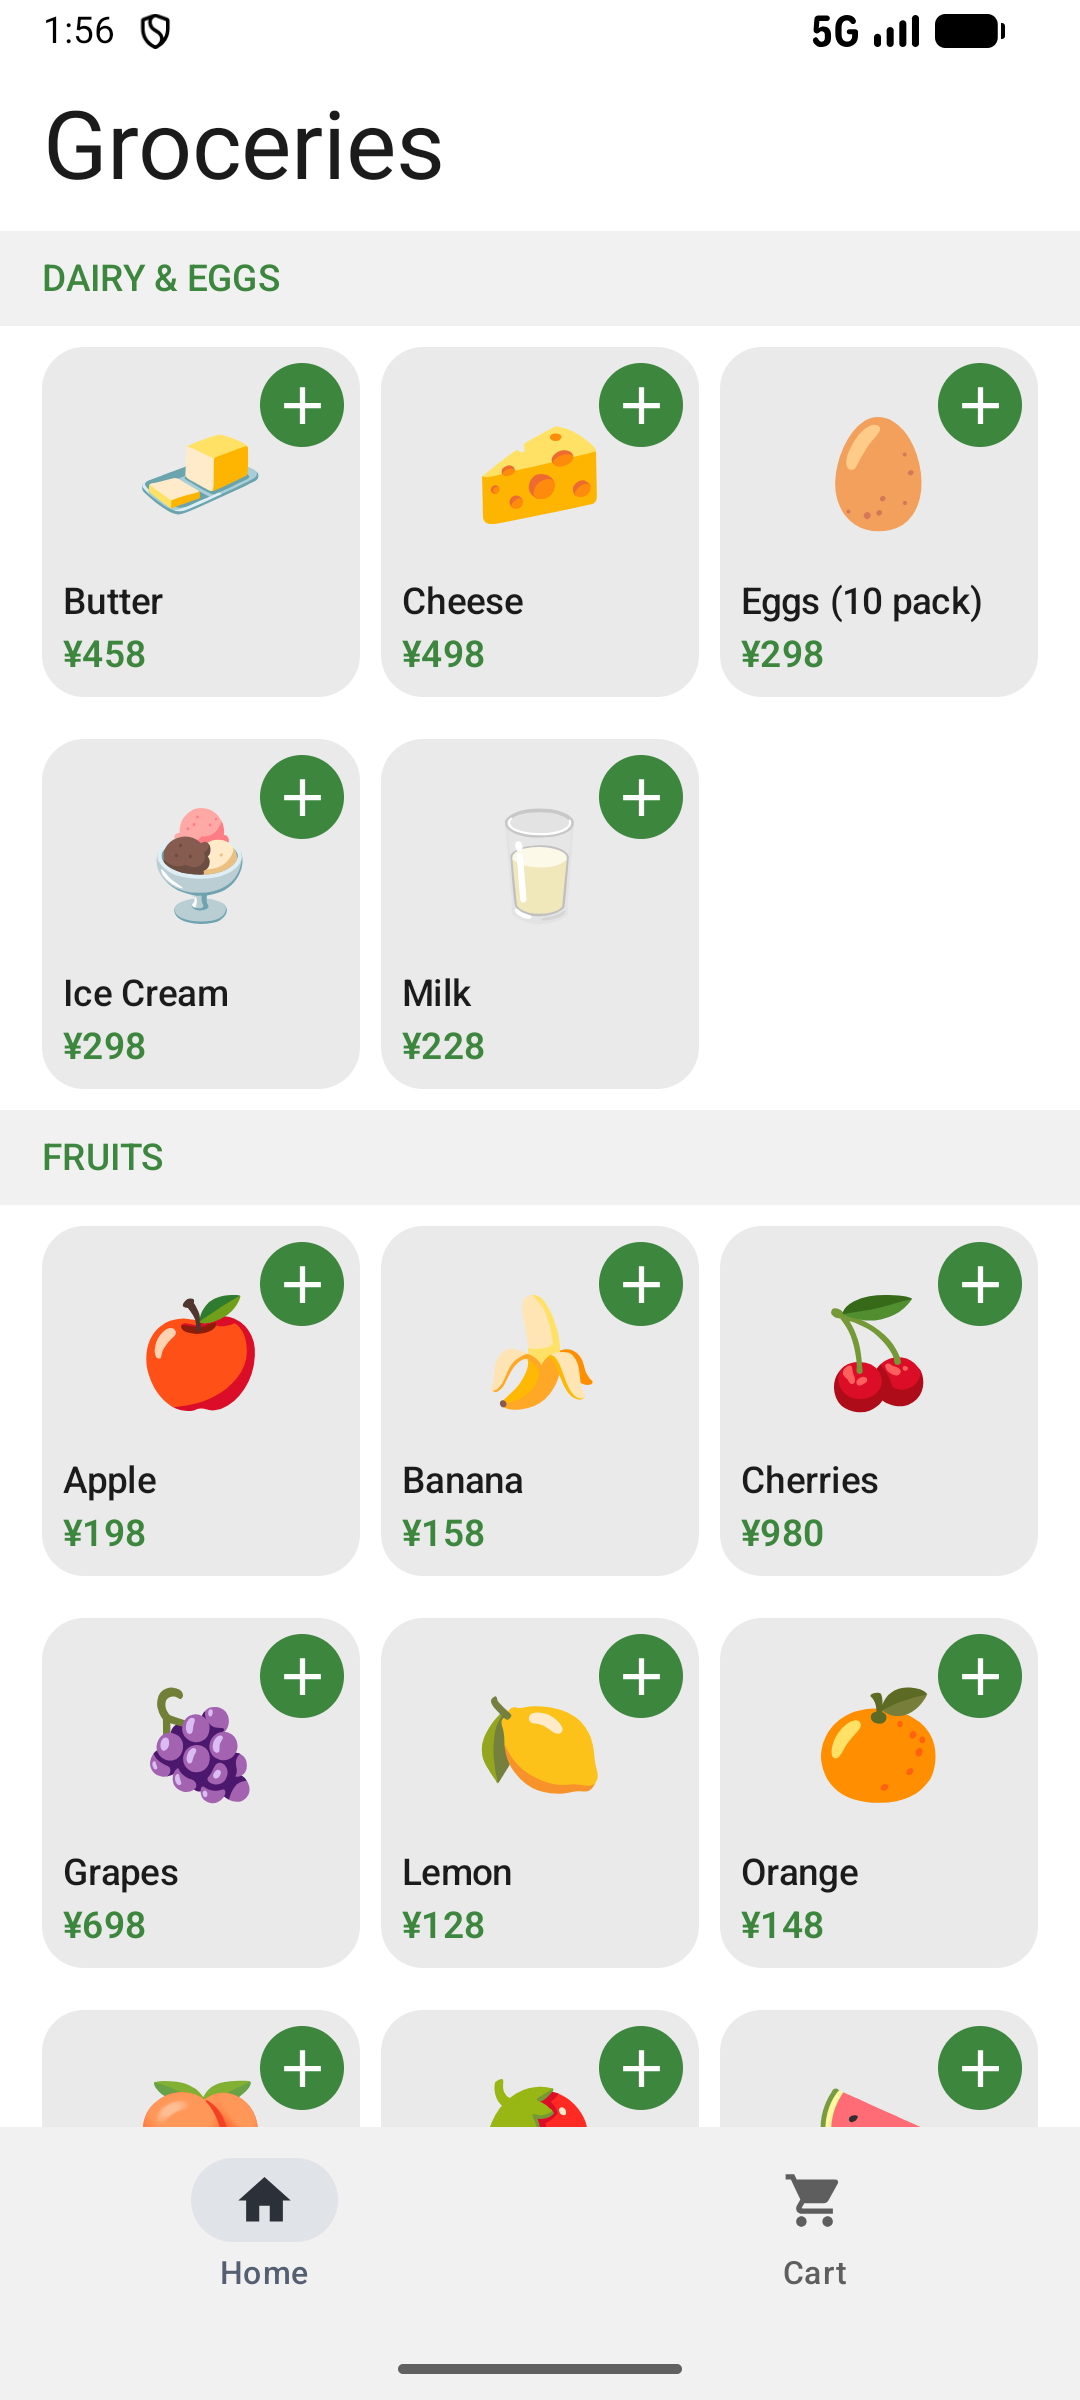
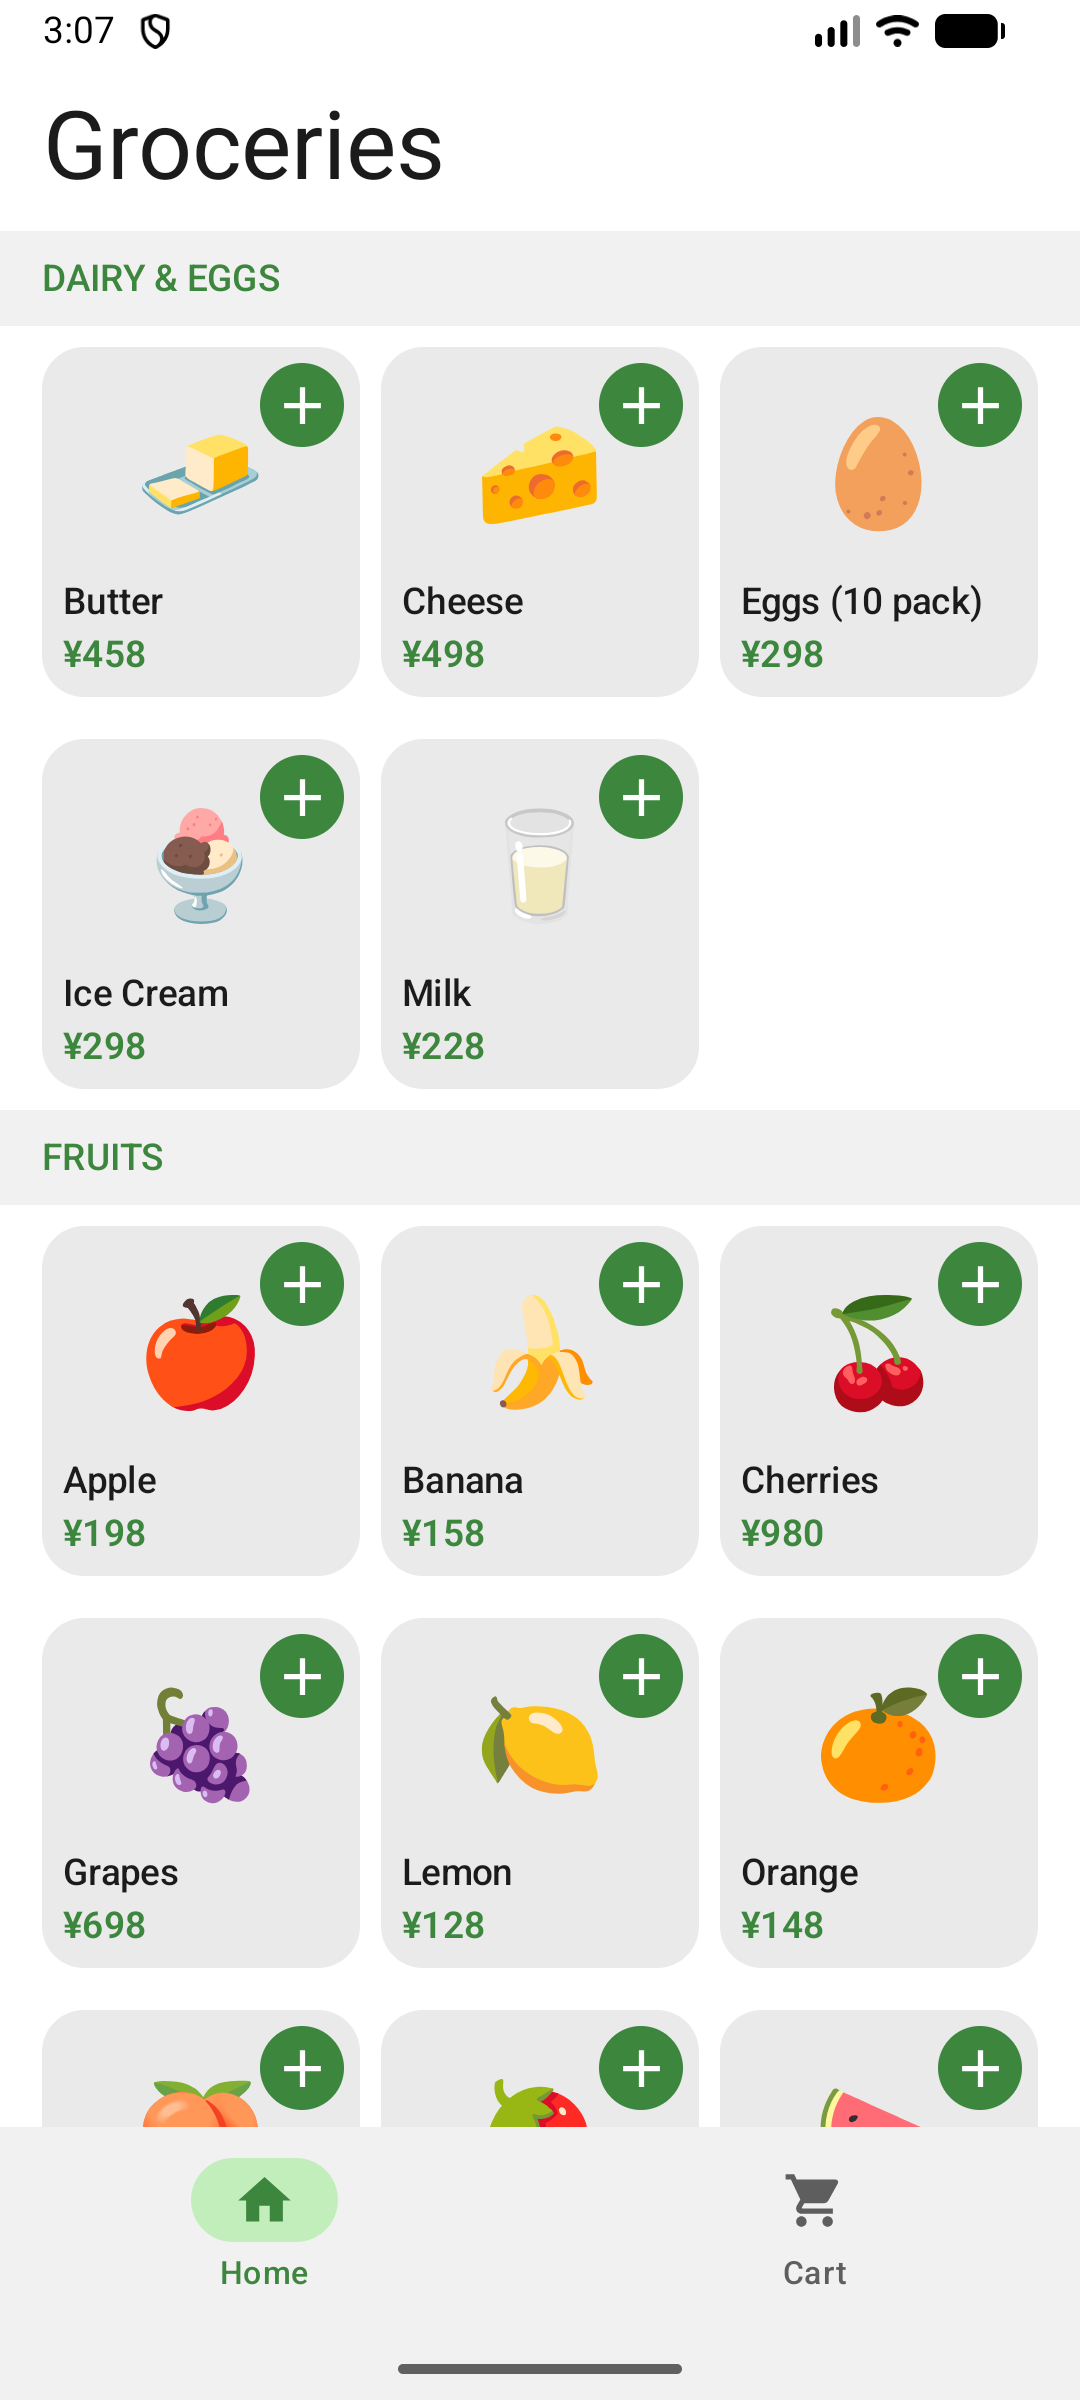
Add logging events

Changed region(s): [[0.1833, 0.875, 0.3361, 0.9688], [0.7333, 0.0, 0.8556, 0.0312], [0.0306, 0.0, 0.1222, 0.0312]]

diff --git a/androidApp/src/main/kotlin/com/github/kittinunf/aiqua_testing/ui/GroceryApp.kt b/androidApp/src/main/kotlin/com/github/kittinunf/aiqua_testing/ui/GroceryApp.kt
@@ -8,8 +8,10 @@ import androidx.compose.foundation.layout.padding
 import androidx.compose.material3.Badge
 import androidx.compose.material3.BadgedBox
 import androidx.compose.material3.Icon
+import androidx.compose.material3.MaterialTheme
 import androidx.compose.material3.NavigationBar
 import androidx.compose.material3.NavigationBarItem
+import androidx.compose.material3.NavigationBarItemDefaults
 import androidx.compose.material3.Scaffold
 import androidx.compose.material3.Text
 import androidx.compose.runtime.Composable
@@ -56,6 +58,11 @@ fun GroceryApp(container: AppContainer) {
 
         Scaffold(
             bottomBar = {
+                val tabColors = NavigationBarItemDefaults.colors(
+                    selectedIconColor = MaterialTheme.colorScheme.primary,
+                    selectedTextColor = MaterialTheme.colorScheme.primary,
+                    indicatorColor = MaterialTheme.colorScheme.primaryContainer,
+                )
                 NavigationBar {
                     NavigationBarItem(
                         selected = current == HomeRoute,
@@ -67,6 +74,7 @@ fun GroceryApp(container: AppContainer) {
                             )
                         },
                         label = { Text(stringResource(MR.strings.tab_home)) },
+                        colors = tabColors,
                     )
                     NavigationBarItem(
                         selected = current == CartRoute,
@@ -77,6 +85,7 @@ fun GroceryApp(container: AppContainer) {
                             }
                         },
                         label = { Text(stringResource(MR.strings.tab_cart)) },
+                        colors = tabColors,
                     )
                 }
             },
@@ -91,9 +100,6 @@ fun GroceryApp(container: AppContainer) {
                     rememberSaveableStateHolderNavEntryDecorator(),
                     rememberViewModelStoreNavEntryDecorator(),
                 ),
-                transitionSpec = { fadeIn() togetherWith fadeOut() },
-                popTransitionSpec = { fadeIn() togetherWith fadeOut() },
-                predictivePopTransitionSpec = { fadeIn() togetherWith fadeOut() },
                 entryProvider = entryProvider {
                     entry<HomeRoute> { HomeScreen(viewModel { container.homeViewModel() }) }
                     entry<CartRoute> {

diff --git a/sharedLogic/src/commonMain/kotlin/com/github/kittinunf/aiqua_testing/aiqua/EventLogger.kt b/sharedLogic/src/commonMain/kotlin/com/github/kittinunf/aiqua_testing/aiqua/EventLogger.kt
@@ -1,10 +1,46 @@
 package com.github.kittinunf.aiqua_testing.aiqua
 
+import com.github.kittinunf.aiqua_testing.catalog.CURRENCY
+import com.github.kittinunf.aiqua_testing.order.Order
+
 /** Where ViewModels send analytics events. The app uses [Aiqua]; tests use a fake. */
 fun interface EventLogger {
-    fun logEvent(name: String, parameters: Map<String, Any>)
+    /**
+     * Mirrors the AIQUA SDK: [valueToSum] is added up per event name in AIQUA (e.g. revenue), in the ISO 4217
+     * [valueToSumCurrency]. Events without a value pass null for both.
+     */
+    fun logEvent(name: String, parameters: Map<String, Any>, valueToSum: Double?, valueToSumCurrency: String?)
 }
+
+// The events the app sends, so names and parameter keys live in one place.
 
 /** A screen became visible: the app opened on it, or the Shopper navigated to it. */
 internal fun EventLogger.screenViewed(screenName: String) =
-    logEvent("screen_viewed", mapOf("screen_name" to screenName))
+    logEvent("screen_viewed", mapOf("screen_name" to screenName), null, null)
+
+/**
+ * An Order was placed: one `product_purchased` per Cart Line (AIQUA's recommendation models learn from these),
+ * then `checkout_completed`, which alone carries the Order total as revenue so it's counted once. All share `order_id`.
+ */
+internal fun EventLogger.orderPlaced(order: Order) {
+    order.cart.lines.forEach { line ->
+        logEvent(
+            "product_purchased",
+            mapOf(
+                "order_id" to order.id,
+                "product_id" to line.product.id,
+                "product_name" to line.product.name,
+                "category" to line.product.category,
+                "price" to line.product.price,
+                "quantity" to line.quantity,
+            ),
+            null,
+            null,
+        )
+    }
+    logEvent("checkout_completed", mapOf("order_id" to order.id, "product_count" to order.count), order.total.toDouble(), CURRENCY)
+}
+
+/** Placing an Order failed. Nothing was bought, so there's no value and no per-item events. */
+internal fun EventLogger.checkoutFailed(error: Throwable) =
+    logEvent("checkout_failed", mapOf("reason" to (error.message ?: error::class.simpleName ?: "unknown")), null, null)

diff --git a/sharedLogic/src/commonTest/kotlin/com/github/kittinunf/aiqua_testing/cart/CartViewModelTest.kt b/sharedLogic/src/commonTest/kotlin/com/github/kittinunf/aiqua_testing/cart/CartViewModelTest.kt
@@ -45,7 +45,18 @@ class CartViewModelTest {
             }
         }
         val cartRepository = DefaultCartRepository(orderService)
-        val viewModel = CartViewModel(cartRepository, eventLogger = { _, _ -> })
+        val logged = mutableListOf<LoggedEvent>()
+        val viewModel = CartViewModel(
+            cartRepository,
+            eventLogger = { name, parameters, value, currency ->
+                logged += LoggedEvent(
+                    name,
+                    parameters,
+                    value,
+                    currency
+                )
+            },
+        )
         cartRepository.add(carrot)
         runCurrent()
 
@@ -60,6 +71,8 @@ class CartViewModelTest {
             assertNotNull(it.orderError)
             assertEquals(1, it.lines.size) // the Cart is still there
         }
+        assertEquals(listOf(LoggedEvent("checkout_failed", mapOf("reason" to "declined"))), logged)
+        logged.clear()
 
         advanceTimeBy(2.seconds)
         runCurrent()
@@ -74,5 +87,33 @@ class CartViewModelTest {
             assertNull(it.orderError)
             assertTrue(it.isEmpty)
         }
+        assertEquals(
+            listOf(
+                LoggedEvent(
+                    "product_purchased",
+                    mapOf(
+                        "order_id" to "ORD-000001",
+                        "product_id" to "carrot",
+                        "product_name" to "Carrot",
+                        "category" to "vegetables",
+                        "price" to 98, "quantity" to 1,
+                    ),
+                ),
+                LoggedEvent(
+                    "checkout_completed",
+                    mapOf("order_id" to "ORD-000001", "product_count" to 1),
+                    value = 98.0,
+                    currency = "JPY"
+                ),
+            ),
+            logged,
+        )
     }
+
+    private data class LoggedEvent(
+        val name: String,
+        val parameters: Map<String, Any>,
+        val value: Double? = null,
+        val currency: String? = null,
+    )
 }

diff --git a/sharedLogic/src/commonMain/kotlin/com/github/kittinunf/aiqua_testing/cart/CartViewModel.kt b/sharedLogic/src/commonMain/kotlin/com/github/kittinunf/aiqua_testing/cart/CartViewModel.kt
@@ -3,6 +3,8 @@ package com.github.kittinunf.aiqua_testing.cart
 import androidx.lifecycle.ViewModel
 import androidx.lifecycle.viewModelScope
 import com.github.kittinunf.aiqua_testing.aiqua.EventLogger
+import com.github.kittinunf.aiqua_testing.aiqua.checkoutFailed
+import com.github.kittinunf.aiqua_testing.aiqua.orderPlaced
 import com.github.kittinunf.aiqua_testing.aiqua.screenViewed
 import com.github.kittinunf.aiqua_testing.catalog.Product
 import com.github.kittinunf.aiqua_testing.catalog.formatPrice
@@ -26,9 +28,7 @@ data class CartUiState(
     val lines: List<CartLineRow> = emptyList(),
     val totalText: String = formatPrice(0),
     val isPlacingOrder: Boolean = false,
-    /** Set for a moment after an Order is placed, to show "Order placed" with its total. */
     val placedOrderTotalText: String? = null,
-    /** Set for a moment after placing an Order fails. The Cart is unchanged, so the Shopper can tap Buy again. */
     val orderError: Throwable? = null,
 ) {
     val isEmpty: Boolean get() = lines.isEmpty()
@@ -65,10 +65,12 @@ class CartViewModel(
         viewModelScope.launch {
             orderState.value = try {
                 val order = cartRepository.checkout()
+                eventLogger.orderPlaced(order)
                 OrderState(placedTotalText = formatPrice(order.total))
             } catch (e: CancellationException) {
                 throw e
             } catch (e: Exception) {
+                eventLogger.checkoutFailed(e)
                 OrderState(error = e)
             }
             delay(resultDisplayTime)

diff --git a/sharedLogic/src/iosMain/kotlin/com/github/kittinunf/aiqua_testing/aiqua/Aiqua.ios.kt b/sharedLogic/src/iosMain/kotlin/com/github/kittinunf/aiqua_testing/aiqua/Aiqua.ios.kt
@@ -3,6 +3,7 @@ package com.github.kittinunf.aiqua_testing.aiqua
 import com.appier.ios.QGSdk
 import com.github.kittinunf.aiqua_testing.Constants
 import com.github.kittinunf.aiqua_testing.getPlatform
+import platform.Foundation.NSNumber
 
 @OptIn(kotlinx.cinterop.ExperimentalForeignApi::class)
 actual typealias QG = QGSdk
@@ -23,7 +24,12 @@ actual object Aiqua : EventLogger {
         qg.setCustomKey("platform", platform.name)
     }
 
-    actual override fun logEvent(name: String, parameters: Map<String, Any>) {
-        QGSdk.getSharedInstance().logEvent(name, withParameters = parameters as Map<Any?, *>)
+    actual override fun logEvent(name: String, parameters: Map<String, Any>, valueToSum: Double?, valueToSumCurrency: String?) {
+        QGSdk.getSharedInstance().logEvent(
+            name,
+            withParameters = parameters as Map<Any?, *>,
+            withValueToSum = valueToSum?.let { NSNumber(double = it) },
+            withValueToSumCurrency = valueToSumCurrency,
+        )
     }
 }

diff --git a/sharedLogic/src/commonTest/kotlin/com/github/kittinunf/aiqua_testing/home/HomeViewModelTest.kt b/sharedLogic/src/commonTest/kotlin/com/github/kittinunf/aiqua_testing/home/HomeViewModelTest.kt
@@ -38,7 +38,7 @@ class HomeViewModelTest {
                 products.value = listOf(carrot)
             }
         }
-        val viewModel = HomeViewModel(repository, DefaultCartRepository(FakeOrderService()), eventLogger = { _, _ -> })
+        val viewModel = HomeViewModel(repository, DefaultCartRepository(FakeOrderService()), eventLogger = { _, _, _, _ -> })
 
         viewModel.uiState.value.let {
             assertFalse(it.isLoading)
@@ -63,7 +63,7 @@ class HomeViewModelTest {
             override val products = MutableStateFlow<List<Product>?>(listOf(carrot))
             override suspend fun refresh() = Unit
         }
-        val viewModel = HomeViewModel(repository, DefaultCartRepository(FakeOrderService())) { name, parameters ->
+        val viewModel = HomeViewModel(repository, DefaultCartRepository(FakeOrderService())) { name, parameters, _, _ ->
             logged += name to parameters
         }
 

diff --git a/sharedLogic/src/androidMain/kotlin/com/github/kittinunf/aiqua_testing/aiqua/Aiqua.android.kt b/sharedLogic/src/androidMain/kotlin/com/github/kittinunf/aiqua_testing/aiqua/Aiqua.android.kt
@@ -27,8 +27,9 @@ actual object Aiqua : EventLogger {
     }
 
     // The SDK keeps its single client itself; it only needs a Context to hand it back.
-    actual override fun logEvent(name: String, parameters: Map<String, Any>) {
-        AppierQG.getInstance(AppContextProvider.appContext).logEvent(name, JSONObject(parameters))
+    actual override fun logEvent(name: String, parameters: Map<String, Any>, valueToSum: Double?, valueToSumCurrency: String?) {
+        AppierQG.getInstance(AppContextProvider.appContext)
+            .logEvent(name, JSONObject(parameters), valueToSum, valueToSumCurrency)
     }
 }
 

diff --git a/sharedLogic/src/commonMain/kotlin/com/github/kittinunf/aiqua_testing/cart/CartRepository.kt b/sharedLogic/src/commonMain/kotlin/com/github/kittinunf/aiqua_testing/cart/CartRepository.kt
@@ -14,10 +14,8 @@ interface CartRepository {
     @NativeCoroutinesIgnore // Swift goes through ViewModels, never Repositories.
     val cart: StateFlow<Cart>
 
-    /** Adds one unit, appending a new Cart Line if the Product isn't in the Cart yet. Stops at [CartLine.MAX_QUANTITY]. */
     fun add(product: Product)
 
-    /** Takes away one unit. Taking away the last unit removes the Cart Line. */
     fun decrement(productId: String)
 
     fun remove(productId: String)

diff --git a/sharedLogic/src/commonMain/kotlin/com/github/kittinunf/aiqua_testing/order/Order.kt b/sharedLogic/src/commonMain/kotlin/com/github/kittinunf/aiqua_testing/order/Order.kt
@@ -10,6 +10,7 @@ import kotlin.time.Duration.Companion.seconds
 /** A confirmed purchase of everything that was in the Cart. [id] is the Order ID. */
 data class Order(val id: String, val cart: Cart) {
     val total: Int get() = cart.total
+    val count: Int get() = cart.unitCount
 }
 
 /** Thrown when an Order can't be placed. No Order exists, and the Cart is left as it was. */

diff --git a/sharedLogic/src/commonMain/kotlin/com/github/kittinunf/aiqua_testing/catalog/Product.kt b/sharedLogic/src/commonMain/kotlin/com/github/kittinunf/aiqua_testing/catalog/Product.kt
@@ -12,6 +12,9 @@ data class Product(
     val price: Int,
 )
 
+/** The currency of every Price (ISO 4217): whole Japanese yen. */
+const val CURRENCY = "JPY"
+
 /** Formats whole yen for display, e.g. 1280 -> "¥1,280". */
 fun formatPrice(yen: Int): String =
     "¥" + yen.toString().reversed().chunked(3).joinToString(",").reversed()

diff --git a/sharedLogic/src/commonMain/kotlin/com/github/kittinunf/aiqua_testing/aiqua/Aiqua.kt b/sharedLogic/src/commonMain/kotlin/com/github/kittinunf/aiqua_testing/aiqua/Aiqua.kt
@@ -9,7 +9,7 @@ expect object Aiqua : EventLogger {
 
     fun setCustomUserAttributes(qg: QG)
 
-    override fun logEvent(name: String, parameters: Map<String, Any>)
+    override fun logEvent(name: String, parameters: Map<String, Any>, valueToSum: Double?, valueToSumCurrency: String?)
 }
 
 expect class QG

diff --git a/README.md b/README.md
@@ -5,6 +5,22 @@ So the core logic can be shared across iOS & Android including the AIQUA's insta
 
 The architecture of the app is documented at [docs/architecture.md](./docs/architecture.md) and for how data flows through the app, and [docs/adr](./docs/adr) for key decisions for all technical decisions in building the app.
 
+### AIQUA events
+
+These are the events the app sends to AIQUA. Both apps send the same events from the shared ViewModels (`sharedLogic`),
+so Android and iOS always match. Every 5th Order fails on purpose, so `checkout_failed` is easy to trigger.
+
+| Event | Parameters | Sent when |
+|---|---|---|
+| `screen_viewed` | `screen_name`: `home` / `cart` | A screen appears: app launch or a tab switch. On Android, rotating the screen sends it again. |
+| `product_purchased` | `order_id`, `product_id`, `product_name`, `category`, `price` (one unit, yen), `quantity` | An Order was placed: one event per item, before `checkout_completed`. No value. |
+| `checkout_completed` | `order_id`; **valueToSum** = Order total, **valueToSumCurrency** = `JPY` | An Order was placed. The only event with a value, so revenue is counted once. |
+| `checkout_failed` | `reason` (the error message) | Placing an Order failed. No value and no per-item events. |
+
+Events sharing an `order_id` belong to the same Order. To see them, open the AIQUA dashboard, then Settings >
+Recent activity (Android / iOS tabs); they can take a few minutes to appear. How events are wired is in
+[docs/architecture.md](./docs/architecture.md#events).
+
 ### Screenshots
 
 Native Android and iOS screens, captured from the running apps.
